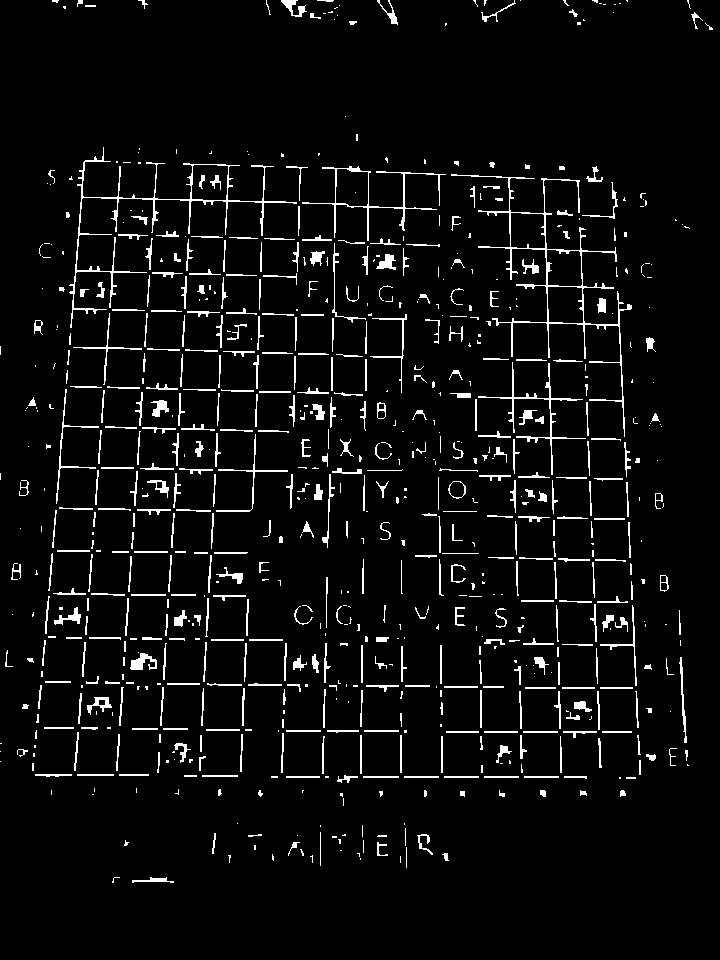
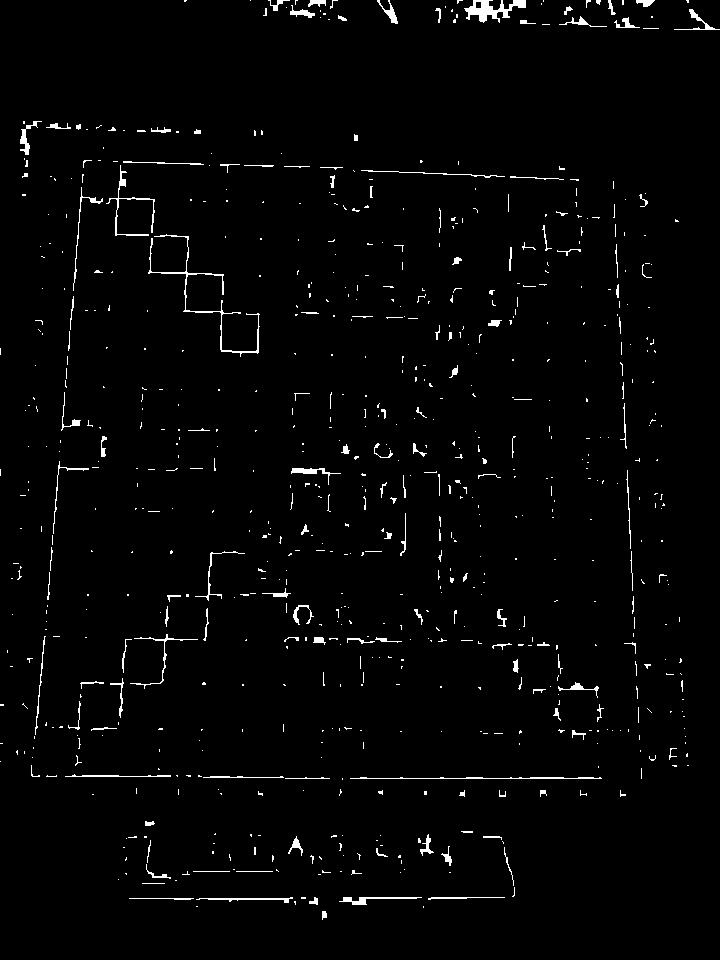
edgeDetection for both the board and the cells

diff --git a/edgeDetection.py b/edgeDetection.py
@@ -1,0 +1,102 @@
+import cv2
+import numpy as np
+
+def find_edges(img, type):
+    filter = True
+    cannyApertureSize = 7
+
+    if type == "board":
+        hsv = cv2.cvtColor(img, cv2.COLOR_BGR2HSV)
+        thresh = cv2.inRange(hsv, (0, 0, 0) , (179, 90, 120))
+        gray = thresh
+    else:
+        gray = cv2.cvtColor(img,cv2.COLOR_BGR2GRAY)
+        cannyApertureSize = 3
+
+    edges = cv2.Canny(gray,140,200,apertureSize = cannyApertureSize)
+    kernel = np.ones((3,3),np.uint8)
+    edges = cv2.dilate(edges,kernel,iterations = 1)
+    kernel = np.ones((5,5),np.uint8)
+    edges = cv2.erode(edges,kernel,iterations = 1)
+    cv2.imwrite('canny.jpg',edges)
+    cv2.imshow("canny", edges)
+
+    cv2.waitKey(0)
+
+    lines = cv2.HoughLines(edges,1,np.pi/180,140)
+
+    if not lines.any():
+        print('No lines were found')
+        exit()
+
+    if filter:
+        rho_threshold = 15
+        theta_threshold = 0.1
+
+        # how many lines are similar to a given one
+        similar_lines = {i : [] for i in range(len(lines))}
+        for i in range(len(lines)):
+            for j in range(len(lines)):
+                if i == j:
+                    continue
+
+                rho_i,theta_i = lines[i][0]
+                rho_j,theta_j = lines[j][0]
+                if abs(rho_i - rho_j) < rho_threshold and abs(theta_i - theta_j) < theta_threshold:
+                    similar_lines[i].append(j)
+
+        # ordering the INDECES of the lines by how many are similar to them
+        indices = [i for i in range(len(lines))]
+        indices.sort(key=lambda x : len(similar_lines[x]))
+
+        # line flags is the base for the filtering
+        line_flags = len(lines)*[True]
+        for i in range(len(lines) - 1):
+            if not line_flags[indices[i]]: # if we already disregarded the ith element in the ordered list then we don't care (we will not delete anything based on it and we will never reconsider using this line again)
+                continue
+
+            for j in range(i + 1, len(lines)): # we are only considering those elements that had less similar line
+                if not line_flags[indices[j]]: # and only if we have not disregarded them already
+                    continue
+
+                rho_i,theta_i = lines[indices[i]][0]
+                rho_j,theta_j = lines[indices[j]][0]
+                if abs(rho_i - rho_j) < rho_threshold and abs(theta_i - theta_j) < theta_threshold:
+                    line_flags[indices[j]] = False # if it is similar and have not been disregarded yet then drop it now
+
+    print('number of Hough lines:', len(lines))
+
+    filtered_lines = []
+
+    if filter:
+        for i in range(len(lines)): # filtering
+            if line_flags[i]:
+                filtered_lines.append(lines[i])
+
+        print('Number of filtered lines:', len(filtered_lines))
+    else:
+        filtered_lines = lines
+
+    for line in filtered_lines:
+        rho,theta = line[0]
+        a = np.cos(theta)
+        b = np.sin(theta)
+        x0 = a*rho
+        y0 = b*rho
+        x1 = int(x0 + 1000*(-b))
+        y1 = int(y0 + 1000*(a))
+        x2 = int(x0 - 1000*(-b))
+        y2 = int(y0 - 1000*(a))
+
+        cv2.line(img,(x1,y1),(x2,y2),(0,0,255),2)
+
+    cv2.imwrite('hough.jpg',img)
+    cv2.imshow("img_contour", img)
+
+    cv2.waitKey(0)
+    cv2.destroyAllWindows()
+    return filtered_lines
+
+file_path = "board2.jpg"
+img = cv2.imread(file_path)
+find_edges(img, "board")

diff --git a/test2.py b/test2.py
@@ -8,12 +8,12 @@ filter = True
 file_path = "board2.jpg"
 img = cv2.imread(file_path)
 
-gray = cv2.cvtColor(img,cv2.COLOR_BGR2GRAY)
-# hsv = cv2.cvtColor(img, cv2.COLOR_BGR2HSV)
-# thresh = cv2.inRange(hsv, (0, 0, 0) , (179, 90, 120))
-# gray = thresh
+# gray = cv2.cvtColor(img,cv2.COLOR_BGR2GRAY)
+hsv = cv2.cvtColor(img, cv2.COLOR_BGR2HSV)
+thresh = cv2.inRange(hsv, (0, 0, 0) , (179, 90, 120))
+gray = thresh
 
-edges = cv2.Canny(gray,140,200,apertureSize = 3)
+edges = cv2.Canny(gray,140,200,apertureSize = 7)
 kernel = np.ones((3,3),np.uint8)
 edges = cv2.dilate(edges,kernel,iterations = 1)
 kernel = np.ones((5,5),np.uint8)
